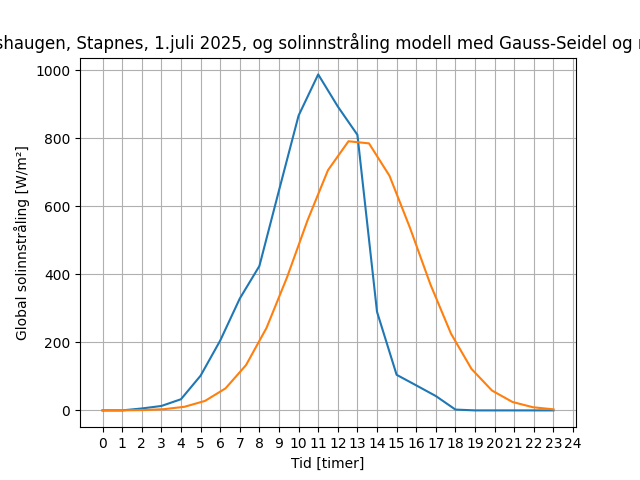
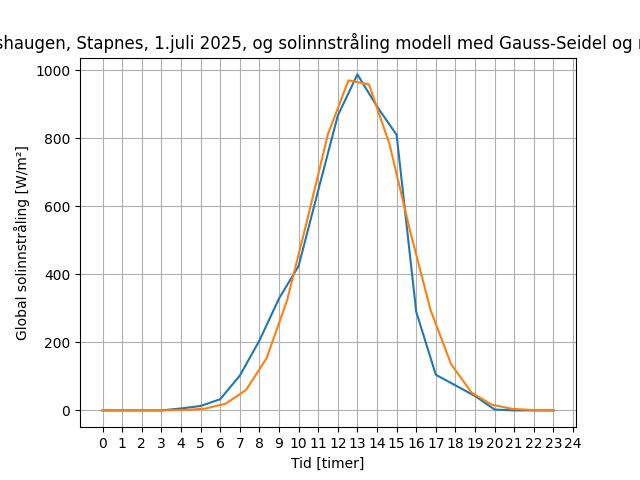
Oppgave 7

diff --git a/oving6.py b/oving6.py
@@ -38,7 +38,7 @@ plt.show()
 #Bredde og lengdegrader: 58.380494, 6.041657 (Stikkshaug, stapnes)
 
 df = pd.read_csv("Ovinger/Oving6/SolinnstralingStapnes.csv", skiprows = 8)
-df = df.iloc[4346:4370]
+df = df.iloc[4344:4368]
 df["G(i)"] = pd.to_numeric(
     df["G(i)"],
     errors="coerce"
@@ -67,3 +67,16 @@ plt.grid()
 plt.savefig("Ovinger/Oving6/PlottSolinstralingBegge.png")
 plt.show()
 
+#oppgave 7, juster parameterene
+A= 987.32
+sigma = 2.4
+
+plt.plot(df["time"], df["G(i)"])
+plt.plot(tidsakse,G(tidsakse, A, my, sigma))
+plt.xticks(np.arange(0,25,1))
+plt.xlabel("Tid [timer]")
+plt.ylabel("Global solinnstråling [W/m²]")
+plt.title("Solinnstråling på Stikkshaugen, Stapnes, 1.juli 2025, og solinnstråling modell med Gauss-Seidel og maks 800 [W/m^2] kl 13")
+plt.grid()
+plt.savefig("Ovinger/Oving6/PlottSolinstralingBegge.png")
+plt.show()
